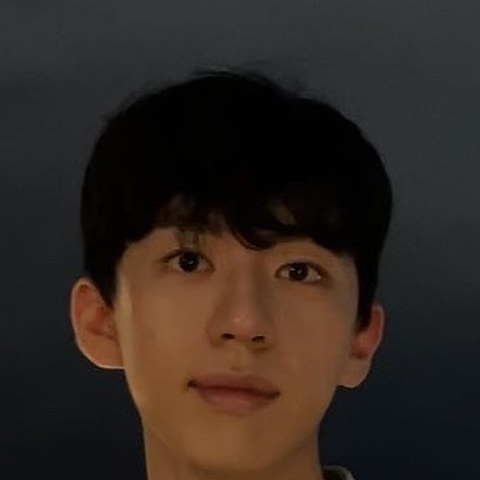
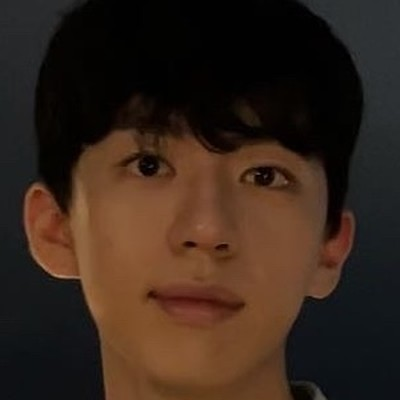
Center the profile photo and add a small AI x Bio animation
Re-crop the profile photo so the face is centered. Add a small SVG and
CSS animation beside the research interests: a cell's mitochondria
glow, signals flow into a tiny neural network, and its layers fire in
turn. It stays still when the viewer prefers reduced motion.

diff --git a/index.html b/index.html
@@ -13,7 +13,7 @@
   <link rel="preconnect" href="https://fonts.googleapis.com">
   <link rel="preconnect" href="https://fonts.gstatic.com" crossorigin>
   <link rel="stylesheet" href="https://fonts.googleapis.com/css2?family=Inter:wght@400;500;600&family=Source+Serif+4:opsz,wght@8..60,500;8..60,600&display=swap">
-  <link rel="stylesheet" href="assets/style.css?v=6">
+  <link rel="stylesheet" href="assets/style.css?v=7">
 </head>
 <body>
   <div class="container">
@@ -30,7 +30,7 @@
       <!-- ============ About ============ -->
       <section class="hero" id="about">
         <div class="hero-head">
-          <img class="avatar" src="assets/profile.jpg" width="480" height="480" alt="Photo of Wonmin Kim">
+          <img class="avatar" src="assets/profile.jpg?v=2" width="400" height="400" alt="Photo of Wonmin Kim">
           <div>
             <h1>Wonmin Kim</h1>
             <p class="role">M.S. Student · Electrical and Computer Engineering · UC San Diego</p>
@@ -94,14 +94,53 @@
       <!-- ============ Interests ============ -->
       <section class="section" aria-labelledby="interests-title">
         <h2 class="section-title" id="interests-title">Research interests</h2>
-        <ul class="interests">
-          <li class="tag">AI for biology</li>
-          <li class="tag">AI for drug discovery</li>
-          <li class="tag">Computer vision</li>
-          <li class="tag">Self-supervised learning</li>
-          <li class="tag">Knowledge distillation</li>
-          <li class="tag">Distribution shift &amp; generalization</li>
-        </ul>
+        <div class="interests-row">
+          <ul class="interests">
+            <li class="tag">AI for biology</li>
+            <li class="tag">AI for drug discovery</li>
+            <li class="tag">Computer vision</li>
+            <li class="tag">Self-supervised learning</li>
+            <li class="tag">Knowledge distillation</li>
+            <li class="tag">Distribution shift &amp; generalization</li>
+          </ul>
+
+          <!-- AI x Bio: a cell's mitochondria light up, signals flow into a small network that fires layer by layer -->
+          <svg class="aixbio" viewBox="0 0 240 120" role="img" aria-label="Animation: signals from a cell's mitochondria flow into a small neural network">
+            <g class="ab-cell">
+              <ellipse class="ab-membrane" cx="46" cy="60" rx="38" ry="27" transform="rotate(-14 46 60)"/>
+              <ellipse class="ab-nucleus" cx="49" cy="62" rx="12" ry="9"/>
+              <g class="ab-mito">
+                <path d="M16 64 q6 -7 14 -6" style="--d:0s"/>
+                <path d="M22 48 q8 -6 16 -4" style="--d:.3s"/>
+                <path d="M38 40 q6 -3 12 -2" style="--d:.6s"/>
+                <path d="M60 44 q8 -2 13 4" style="--d:.9s"/>
+                <path d="M68 58 q6 -4 10 -1" style="--d:1.2s"/>
+                <path d="M64 74 q8 -2 12 -9" style="--d:1.5s"/>
+                <path d="M40 82 q6 1 12 -2" style="--d:1.8s"/>
+                <path d="M24 74 q8 2 14 -2" style="--d:2.1s"/>
+              </g>
+            </g>
+            <g class="ab-flow">
+              <circle cx="88" cy="52" r="2.6" style="--d:0s; fill:#4c7dff"/>
+              <circle cx="88" cy="60" r="2.6" style="--d:.8s; fill:#3fbf5f"/>
+              <circle cx="88" cy="68" r="2.6" style="--d:1.6s; fill:#e8a33a"/>
+            </g>
+            <g class="ab-edges">
+              <line x1="160" y1="40" x2="192" y2="30"/><line x1="160" y1="40" x2="192" y2="50"/><line x1="160" y1="40" x2="192" y2="70"/><line x1="160" y1="40" x2="192" y2="90"/>
+              <line x1="160" y1="60" x2="192" y2="30"/><line x1="160" y1="60" x2="192" y2="50"/><line x1="160" y1="60" x2="192" y2="70"/><line x1="160" y1="60" x2="192" y2="90"/>
+              <line x1="160" y1="80" x2="192" y2="30"/><line x1="160" y1="80" x2="192" y2="50"/><line x1="160" y1="80" x2="192" y2="70"/><line x1="160" y1="80" x2="192" y2="90"/>
+              <line x1="192" y1="30" x2="224" y2="48"/><line x1="192" y1="30" x2="224" y2="72"/>
+              <line x1="192" y1="50" x2="224" y2="48"/><line x1="192" y1="50" x2="224" y2="72"/>
+              <line x1="192" y1="70" x2="224" y2="48"/><line x1="192" y1="70" x2="224" y2="72"/>
+              <line x1="192" y1="90" x2="224" y2="48"/><line x1="192" y1="90" x2="224" y2="72"/>
+            </g>
+            <g class="ab-nodes">
+              <circle class="ab-node l1" cx="160" cy="40" r="4.5"/><circle class="ab-node l1" cx="160" cy="60" r="4.5"/><circle class="ab-node l1" cx="160" cy="80" r="4.5"/>
+              <circle class="ab-node l2" cx="192" cy="30" r="4.5"/><circle class="ab-node l2" cx="192" cy="50" r="4.5"/><circle class="ab-node l2" cx="192" cy="70" r="4.5"/><circle class="ab-node l2" cx="192" cy="90" r="4.5"/>
+              <circle class="ab-node l3" cx="224" cy="48" r="4.5"/><circle class="ab-node l3" cx="224" cy="72" r="4.5"/>
+            </g>
+          </svg>
+        </div>
       </section>
 
       <!-- ============ Projects ============ -->

diff --git a/assets/style.css b/assets/style.css
@@ -195,6 +195,67 @@ a:hover { text-decoration: underline; text-underline-offset: 3px; }
   list-style: none;
 }
 
+/* ---------- AI x Bio animation beside the interests ---------- */
+
+.interests-row {
+  display: grid;
+  grid-template-columns: 1fr auto;
+  gap: 28px;
+  align-items: center;
+}
+.aixbio { display: block; width: 240px; height: auto; overflow: visible; }
+
+.ab-membrane { fill: #3fbf5f; fill-opacity: 0.07; stroke: var(--faint); stroke-width: 1.2; }
+.ab-nucleus { fill: #4c7dff; fill-opacity: 0.85; }
+.ab-mito path {
+  fill: none;
+  stroke: #3fbf5f;
+  stroke-width: 2.2;
+  stroke-linecap: round;
+  animation: ab-glow 2.4s ease-in-out infinite;
+  animation-delay: var(--d, 0s);
+}
+.ab-flow circle {
+  opacity: 0;
+  animation: ab-flow 2.4s linear infinite;
+  animation-delay: var(--d, 0s);
+}
+.ab-edges line { stroke: var(--faint); stroke-opacity: 0.45; stroke-width: 1.1; }
+.ab-node {
+  fill: var(--surface);
+  stroke: var(--accent);
+  stroke-width: 1.6;
+  animation: ab-fire 2.4s ease-in-out infinite;
+}
+.ab-node.l1 { animation-delay: 0.9s; }
+.ab-node.l2 { animation-delay: 1.3s; }
+.ab-node.l3 { animation-delay: 1.7s; }
+
+@keyframes ab-glow {
+  0%, 100% { stroke: #3fbf5f; opacity: 0.55; }
+  50% { stroke: #f2c14e; opacity: 1; }
+}
+@keyframes ab-flow {
+  0% { transform: translate(0, 0); opacity: 0; }
+  15% { opacity: 1; }
+  85% { opacity: 1; }
+  100% { transform: translate(62px, 0); opacity: 0; }
+}
+@keyframes ab-fire {
+  0%, 100% { fill: var(--surface); }
+  15% { fill: var(--accent); }
+  45% { fill: var(--surface); }
+}
+
+@media (prefers-reduced-motion: reduce) {
+  .aixbio * { animation: none !important; }
+  .ab-flow circle { opacity: 1; }
+}
+@media (max-width: 620px) {
+  .interests-row { grid-template-columns: 1fr; gap: 20px; }
+  .aixbio { width: 100%; max-width: 260px; justify-self: center; }
+}
+
 .tag {
   display: inline-block;
   padding: 3px 10px;

diff --git a/projects/pixels-and-profiles.html b/projects/pixels-and-profiles.html
@@ -9,7 +9,7 @@
   <link rel="preconnect" href="https://fonts.googleapis.com">
   <link rel="preconnect" href="https://fonts.gstatic.com" crossorigin>
   <link rel="stylesheet" href="https://fonts.googleapis.com/css2?family=Inter:wght@400;500;600&family=Source+Serif+4:opsz,wght@8..60,500;8..60,600&family=JetBrains+Mono:wght@400&display=swap">
-  <link rel="stylesheet" href="../assets/style.css?v=6">
+  <link rel="stylesheet" href="../assets/style.css?v=7">
 </head>
 <body>
   <div class="container">
